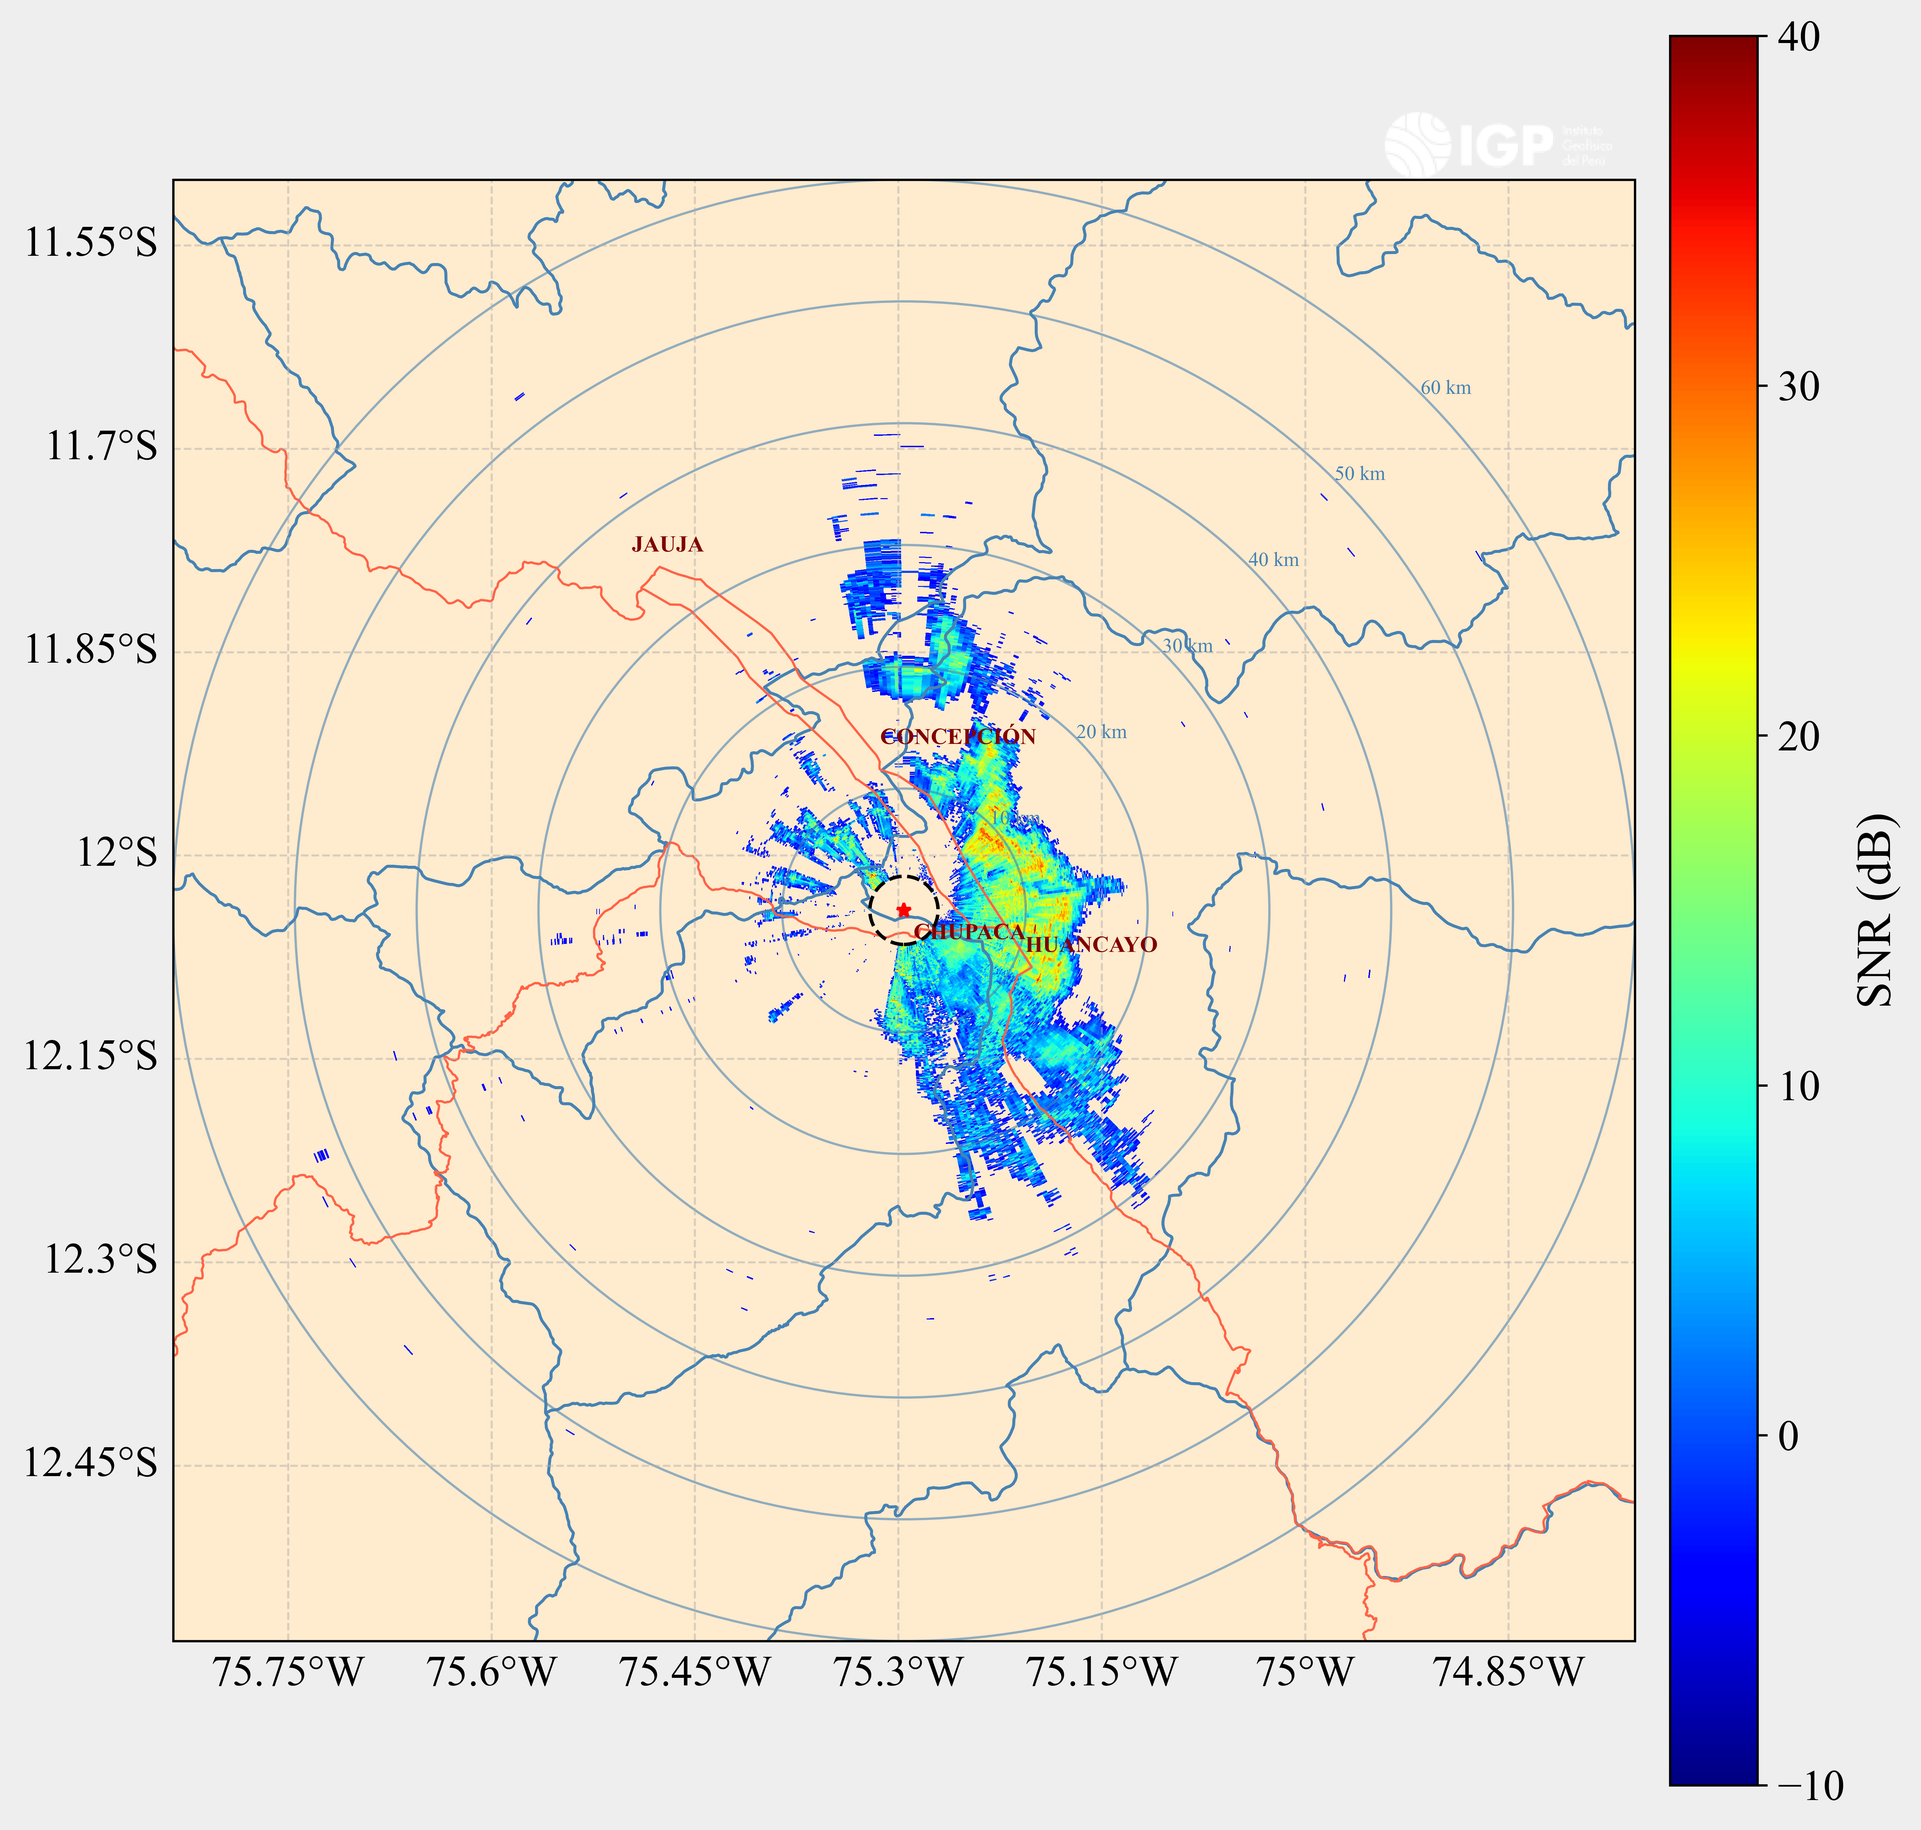
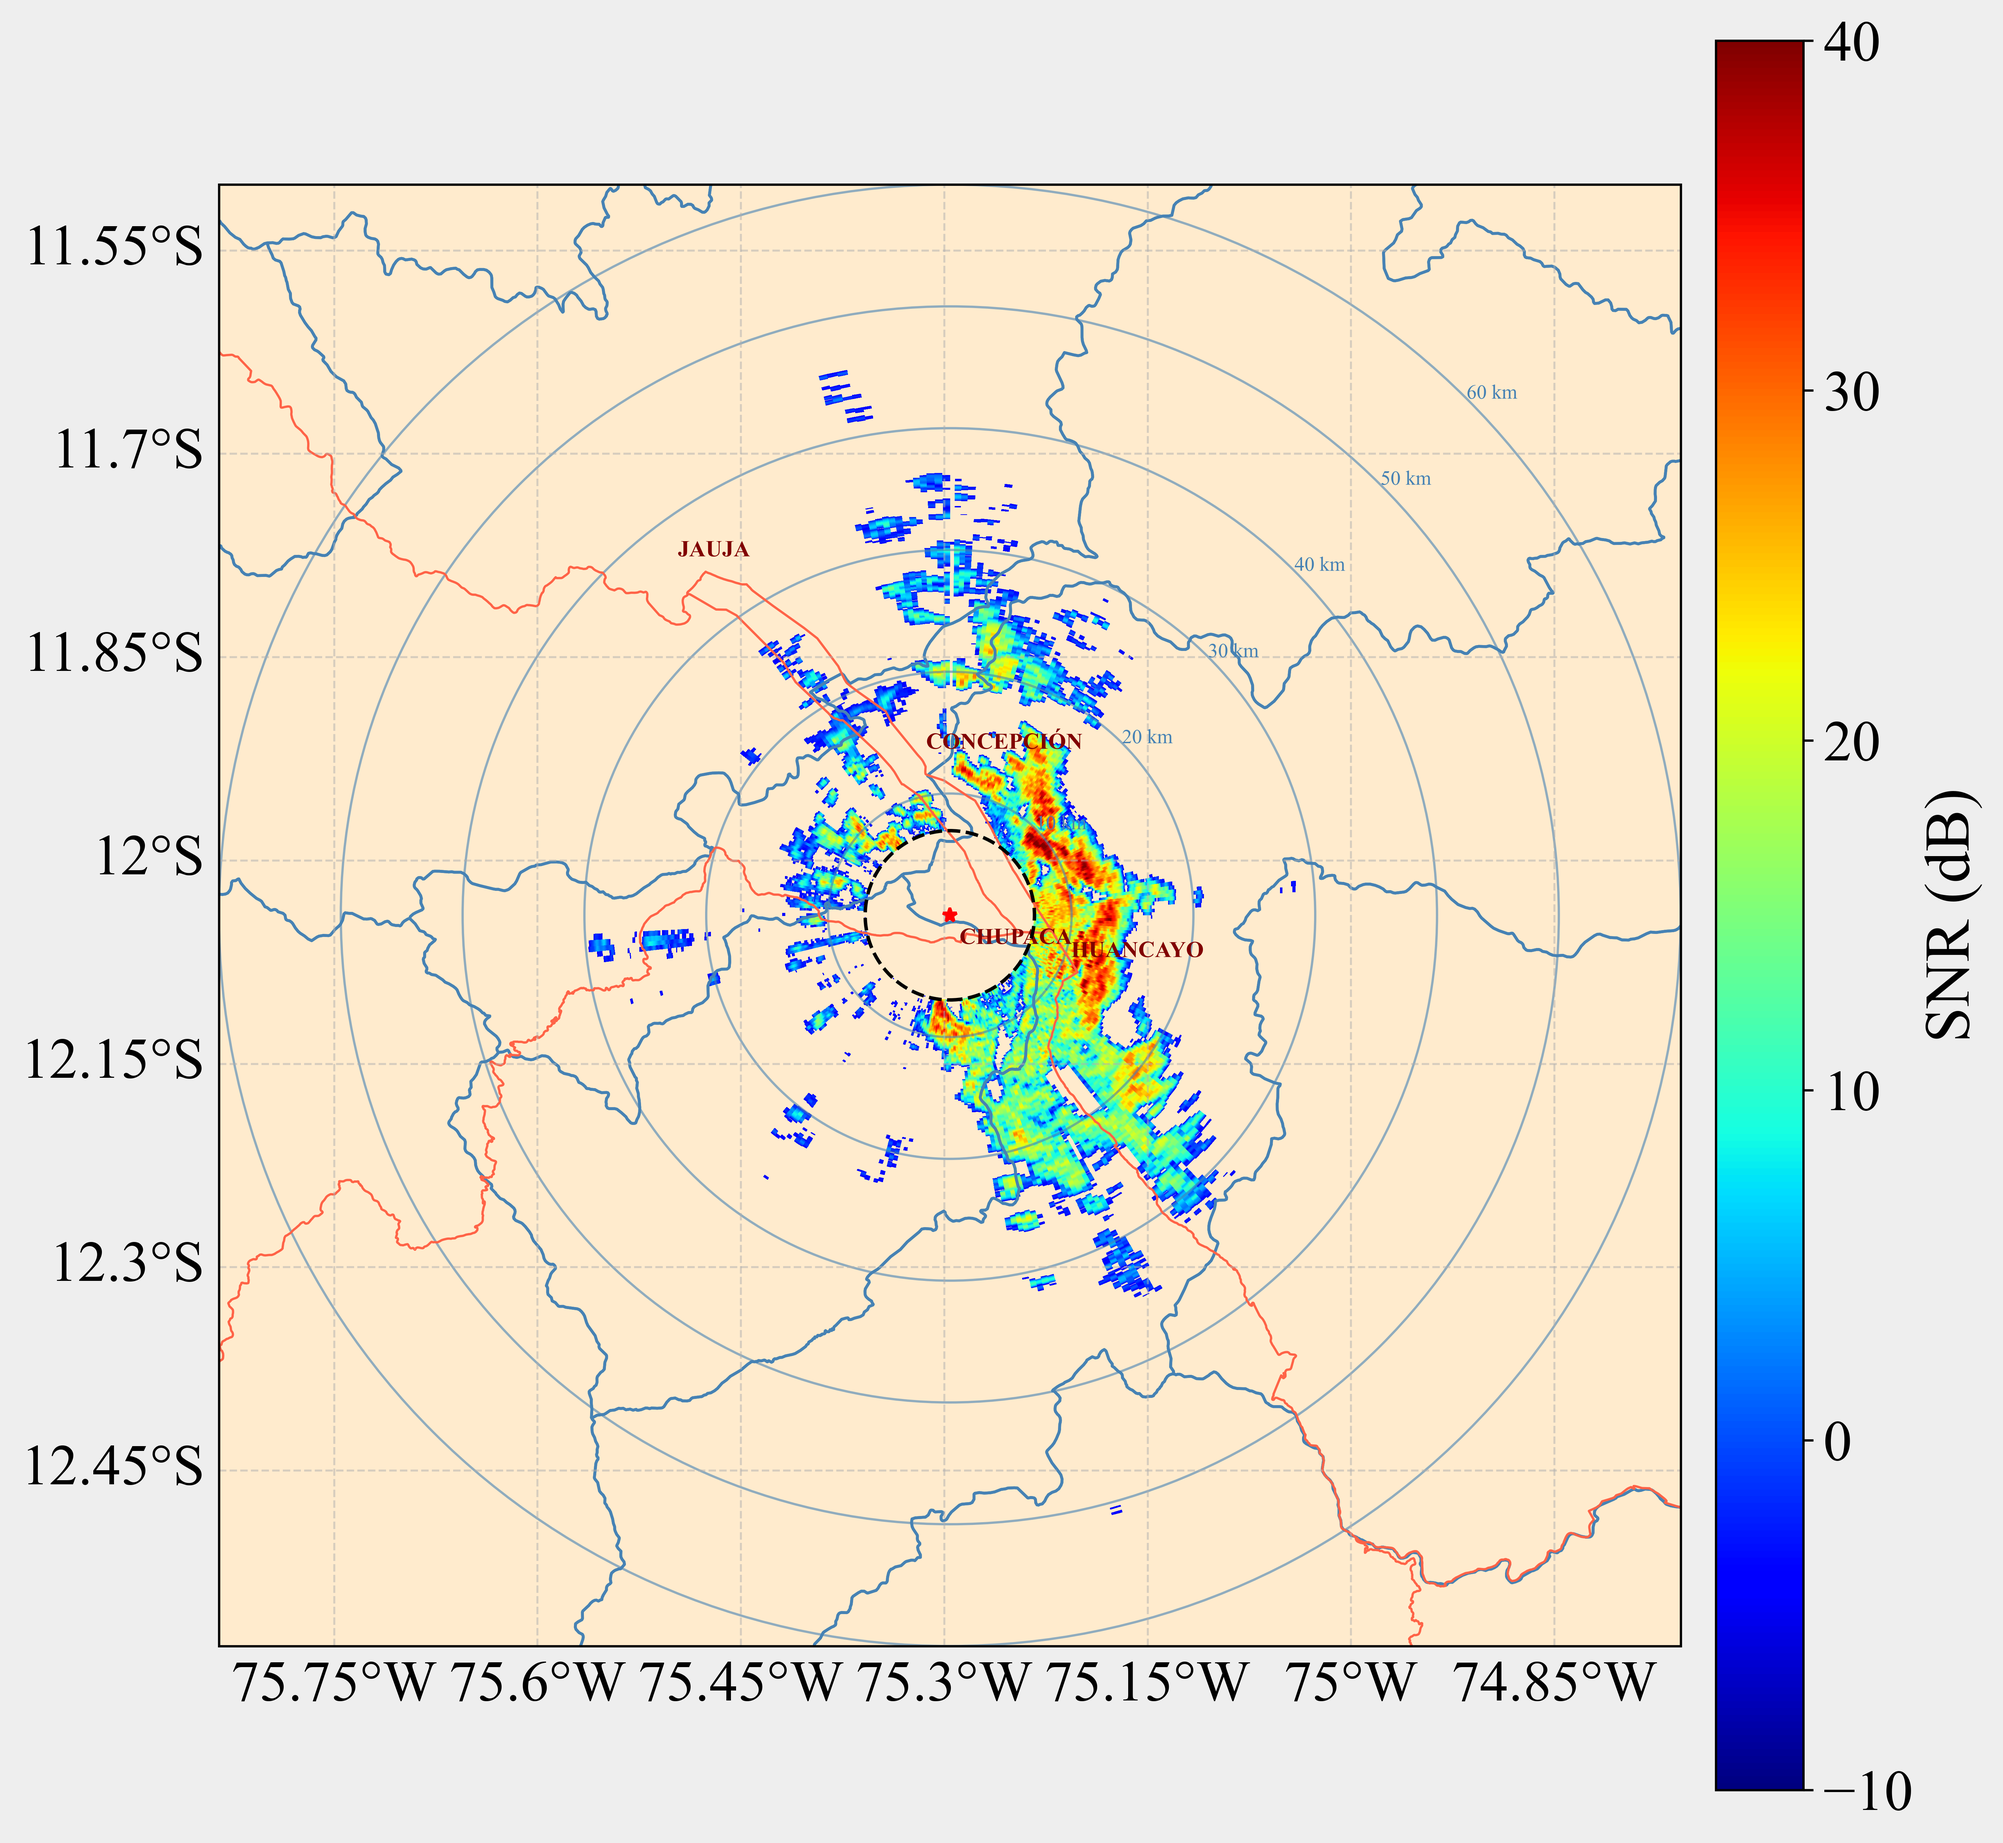
Change in label width

diff --git a/scripts/ppi-2-snr.py b/scripts/ppi-2-snr.py
@@ -35,14 +35,14 @@ RADAR_LAT = -12.04042
 RADAR_LON = -75.29591
 
 XRANGE = 60       # km
-h0 = 38   # índice PARA CHIRP 145, 38 para CC
+h0 = 145   # índice PARA CHIRP 145, 38 para CC
 
 
 
 SHOW_H0_CIRCLE = True 
 
-PATH = "/home/david/Documents/DATA/HYO@2025-11-11T00-00-34/param-01_AUG/SNR_PPI_EL_1.0/SOPHY_20251031_000826_E1.0_SNR.hdf5"
-# PATH = "/home/david/Documents/DATA/CHIRP@2025-10-07T19-57-06/param-01_AUG/SNR_PPI_EL_1.0/SOPHY_20251007_200049_E1.0_SNR.hdf5"
+# PATH = "/home/david/Documents/DATA/HYO@2025-11-11T00-00-34/param-01_AUG/SNR_PPI_EL_1.0/SOPHY_20251031_000826_E1.0_SNR.hdf5"
+PATH = "/home/david/Documents/DATA/CHIRP@2025-10-07T19-57-06/param-01_AUG/SNR_PPI_EL_1.0/SOPHY_20251007_200049_E1.0_SNR.hdf5"
 
 SHAPES = "/home/david/Documents/schain-v3.14/scripts/shapes"
 
@@ -139,6 +139,16 @@ gl = ax.gridlines(draw_labels=True,
 
 gl.top_labels=False
 gl.right_labels=False
+
+gl.xlabel_style = {
+    'size': 20,
+    'family': 'Times New Roman'
+}
+
+gl.ylabel_style = {
+    'size': 20,
+    'family': 'Times New Roman'
+}
 
 
 # ==========================================================
@@ -357,9 +367,10 @@ print(np.nanmin(az), np.nanmax(az))
 cbar = plt.colorbar(pcm, pad=0.02)
 cbar.set_label(
     "SNR (dB)",
-    fontsize=17,
+    fontsize=22,
     fontname="Times New Roman"
 )
+cbar.ax.tick_params(labelsize=20)
 
 # ==========================================================
 # LOGO IGP

diff --git a/scripts/ppi-2-z.py b/scripts/ppi-2-z.py
@@ -135,6 +135,16 @@ gl = ax.gridlines(draw_labels=True,
 gl.top_labels=False
 gl.right_labels=False
 
+gl.xlabel_style = {
+    'size': 20,
+    'family': 'Times New Roman'
+}
+
+gl.ylabel_style = {
+    'size': 20,
+    'family': 'Times New Roman'
+}
+
 
 # ==========================================================
 # SHAPEFILES
@@ -361,9 +371,11 @@ cbar = plt.colorbar(
 
 cbar.set_label(
     "Reflectivity (dBZ)",
-    fontsize=17,
+    fontsize=22,
     fontname="Times New Roman"
 )
+
+cbar.ax.tick_params(labelsize=20)
 
 print("Radar")
 print(RADAR_LAT, RADAR_LON)

diff --git a/scripts/ppi-2-v.py b/scripts/ppi-2-v.py
@@ -135,6 +135,16 @@ gl = ax.gridlines(draw_labels=True,
 gl.top_labels=False
 gl.right_labels=False
 
+gl.xlabel_style = {
+    'size': 20,
+    'family': 'Times New Roman'
+}
+
+gl.ylabel_style = {
+    'size': 20,
+    'family': 'Times New Roman'
+}
+
 
 # ==========================================================
 # SHAPEFILES
@@ -359,9 +369,11 @@ cbar = plt.colorbar(
 
 cbar.set_label(
     "Velocity (m/s)",
-    fontsize=17,
+    fontsize=22,
     fontname="Times New Roman"
 )
+
+cbar.ax.tick_params(labelsize=20)
 
 print("Radar")
 print(RADAR_LAT, RADAR_LON)
